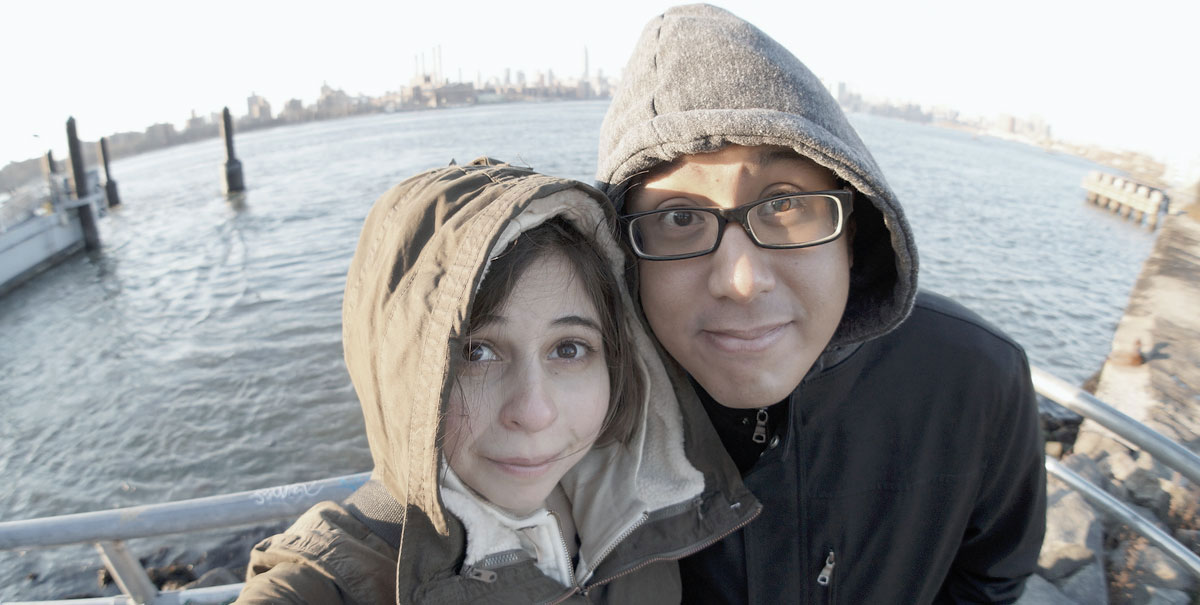
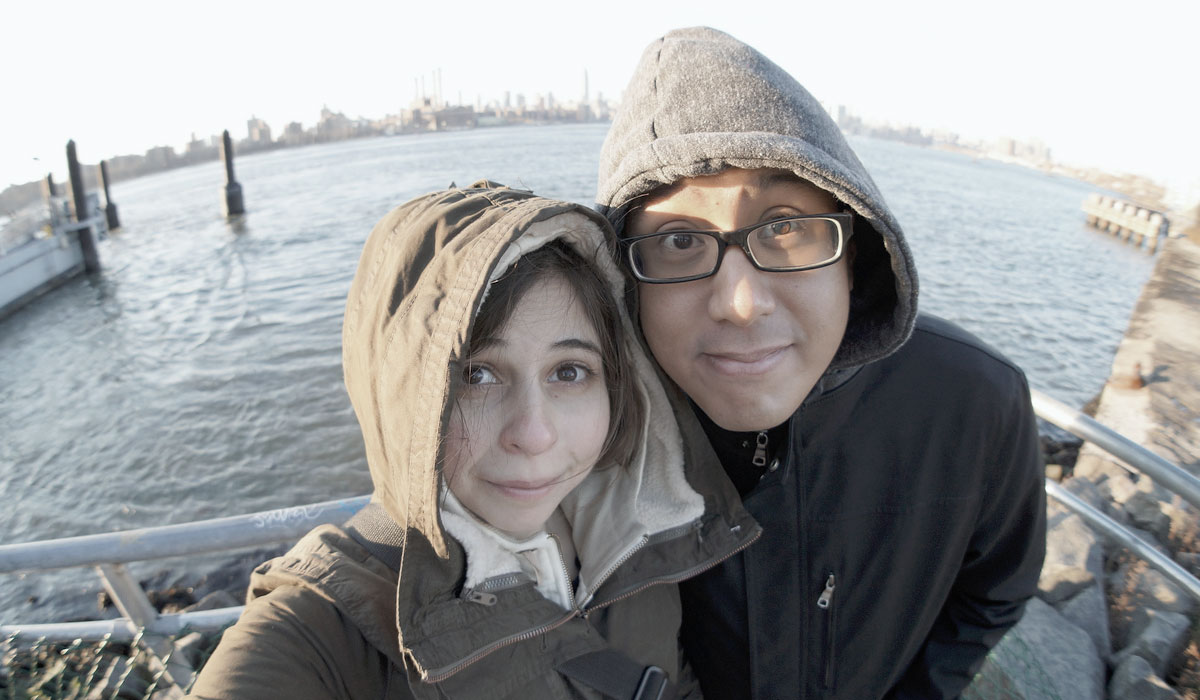
Start to fix the hero

diff --git a/assets/styles/css/global.css b/assets/styles/css/global.css
@@ -1,1 +1,1 @@
-body{background-color:#fff;color:#9b9fa2;font-size:1.1em;font-weight:200;line-height:1.46;font-family:'Helvetica Neue', Helvetica, Arial, sans-serif;-webkit-text-size-adjust:none}a{color:#398397;text-decoration:none;font-weight:400}a:hover{color:#255663}.button{display:inline-block;margin-top:10px;padding:7px 12px;font-weight:bold;font-size:0.8em;border:2px solid #ededed;border-radius:4px}.button:hover{border-color:#e0e0e0}.brandon_grotesque,h1,h2,h3,h4,h5,h6,#site_nav,#about{text-transform:uppercase;font-family:"brandon-grotesque-1", "brandon-grotesque-2", sans-serif}h1,h2,h3,h4,h5,h6{font-weight:700;margin-bottom:10px}h1{color:#475059;font-weight:900;font-size:5.6em;line-height:1.1}h2{color:#b67879;font-size:1.8em}h3{color:#475059}p+p{margin-top:10px}#container{margin:0 auto}#site_nav{position:fixed;padding:15px 0;width:100%;background-color:#fff;border-bottom:1px solid #f3f6f7;text-align:center;z-index:100}#site_nav li{display:inline-block}#site_nav li+li{margin-left:8px}#site_nav a{display:inline-block;padding:5px 14px;color:#a3bbc3;font-size:1.1em;border-radius:3px}#site_nav a:hover{background-color:#f8fbfc}#site_nav a.active{color:#fff;background-color:#a3bbc3}#site_footer{padding:50px;text-align:center}.parallax_container{position:relative;height:440px;overflow:hidden}.parallax{position:absolute;top:0;height:700px}.photo{width:100%;background-repeat:no-repeat;background-position:center}.photo.winery{background-color:#7ba0a9;background-image:url("../../images/photo_winery.jpg")}.photo.waterfront{background-color:#d8e5e9;background-image:url("../../images/photo_waterfront.jpg")}.photo.tbd{background:#f8fbfc;height:400px}.ring_wrapper{position:relative;margin:0 auto -80px auto;width:140px;height:150px;z-index:2}.ring{position:absolute;left:0;display:block;width:86px;height:86px;border-radius:86px;border:10px solid #d8e5e9}.ring+.ring{margin-top:43px;left:45px}.content{position:relative;margin:0 auto;padding:30px;max-width:960px;box-sizing:border-box;overflow:hidden;z-index:2}.content.center{font-size:1.1em;text-align:center;width:60%}.content.left{float:left;width:45%}.content.right{float:right;width:45%}section{padding:50px;overflow:hidden}#about{position:relative;padding:200px 0 440px 0;height:auto;color:#94b2b9;text-align:center;background-color:#f8fbfc}#about h1{margin-bottom:0}#about h1 span{color:#b67879}#about p{font-size:1.7em}#wedding{background-color:#94b2b9}#wedding h2{color:#fff;font-size:2em}#wedding p{color:#dbe3e6}#wedding a{color:#fff}#wedding a:hover{color:rgba(255,255,255,0.8)}#wedding a.button:hover{border-color:rgba(255,255,255,0.5)}#accomodations .wrapper{position:relative;padding-right:calc(42% + 30px)}#accomodations .map{position:absolute;top:0;right:0;width:42%;height:100%}#accomodations .button{margin:5px 0 20px 0}@media screen and (min-width: 1200px){.photo{background-size:100%}}
+body{background-color:#fff;color:#9b9fa2;font-size:1.1em;font-weight:200;line-height:1.46;font-family:'Helvetica Neue', Helvetica, Arial, sans-serif;-webkit-text-size-adjust:none}a{color:#398397;text-decoration:none;font-weight:400}a:hover{color:#255663}.button{display:inline-block;margin-top:10px;padding:7px 12px;font-weight:bold;font-size:0.8em;border:2px solid #ededed;border-radius:4px}.button:hover{border-color:#e0e0e0}.brandon_grotesque,h1,h2,h3,h4,h5,h6,#site_nav,#about{text-transform:uppercase;font-family:"brandon-grotesque-1", "brandon-grotesque-2", sans-serif}h1,h2,h3,h4,h5,h6{font-weight:700;margin-bottom:10px}h1{color:#475059;font-weight:900;font-size:5.6em;line-height:1.1}h2{color:#b67879;font-size:1.8em}h3{color:#475059}p+p{margin-top:10px}#container{margin:0 auto}#site_nav{position:fixed;padding:15px 0;width:100%;background-color:#fff;border-bottom:1px solid #f3f6f7;text-align:center;z-index:100}#site_nav li{display:inline-block}#site_nav li+li{margin-left:8px}#site_nav a{display:inline-block;padding:5px 14px;color:#a3bbc3;font-size:1.1em;border-radius:3px}#site_nav a:hover{background-color:#f8fbfc}#site_nav a.active{color:#fff;background-color:#a3bbc3}#site_footer{padding:50px;text-align:center}.parallax_container{position:relative;height:440px;overflow:hidden}.parallax{position:absolute;top:0;height:700px}.photo{width:100%;background-repeat:no-repeat;background-position:center}.photo.hero{margin-top:500px;background-image:url("../../images/photo_hero.jpg")}.photo.winery{background-color:#7ba0a9;background-image:url("../../images/photo_winery.jpg")}.photo.waterfront{background-color:#d8e5e9;background-image:url("../../images/photo_waterfront.jpg")}.photo.tbd{background:#f8fbfc;height:400px}.ring_wrapper{position:relative;margin:-30px auto -90px auto;width:140px;height:150px;z-index:2}.ring{position:absolute;left:0;display:block;width:86px;height:86px;border-radius:86px;border:10px solid #d8e5e9}.ring+.ring{margin-top:43px;left:45px}.content{position:relative;margin:0 auto;padding:30px;max-width:960px;box-sizing:border-box;overflow:hidden;z-index:2}.content.center{font-size:1.1em;text-align:center;width:60%}.content.left{float:left;width:45%}.content.right{float:right;width:45%}section{padding:50px;overflow:hidden}#about{position:relative;padding:180px 0 700px 0;height:auto;color:#94b2b9;text-align:center;background-color:#f8fbfc}#about h1{margin-bottom:0}#about h1 span{color:#b67879}#about p{font-size:1.7em}#wedding{background-color:#94b2b9}#wedding h2{color:#fff;font-size:2em}#wedding p{color:#dbe3e6}#wedding a{color:#fff}#wedding a:hover{color:rgba(255,255,255,0.8)}#wedding a.button:hover{border-color:rgba(255,255,255,0.5)}#accomodations .wrapper{position:relative;padding-right:calc(42% + 30px)}#accomodations .map{position:absolute;top:0;right:0;width:42%;height:100%}#accomodations .button{margin:5px 0 20px 0}@media screen and (min-width: 1200px){.photo{background-size:100%}}

diff --git a/assets/styles/sass/global.scss b/assets/styles/sass/global.scss
@@ -137,11 +137,10 @@ p + p {
     background-repeat: no-repeat;
     background-position: center;
 
-    /*
     &.hero {
+        margin-top: 500px;
         background-image: url('../../images/photo_hero.jpg');
     }
-    */
 
     &.winery {
         background-color: darken($foam, 8%);
@@ -162,7 +161,7 @@ p + p {
 $ring_size: 86px;
 .ring_wrapper {
     position: relative;
-    margin: 0 auto -80px auto;
+    margin: -30px auto -90px auto;
     width: 140px;
     height: 150px;
     z-index: 2;
@@ -220,7 +219,7 @@ section {
 
 #about {
     position: relative;
-    padding: 200px 0 440px 0;
+    padding: 180px 0 700px 0;
     height: auto;
     color: $foam;
     text-align: center;
